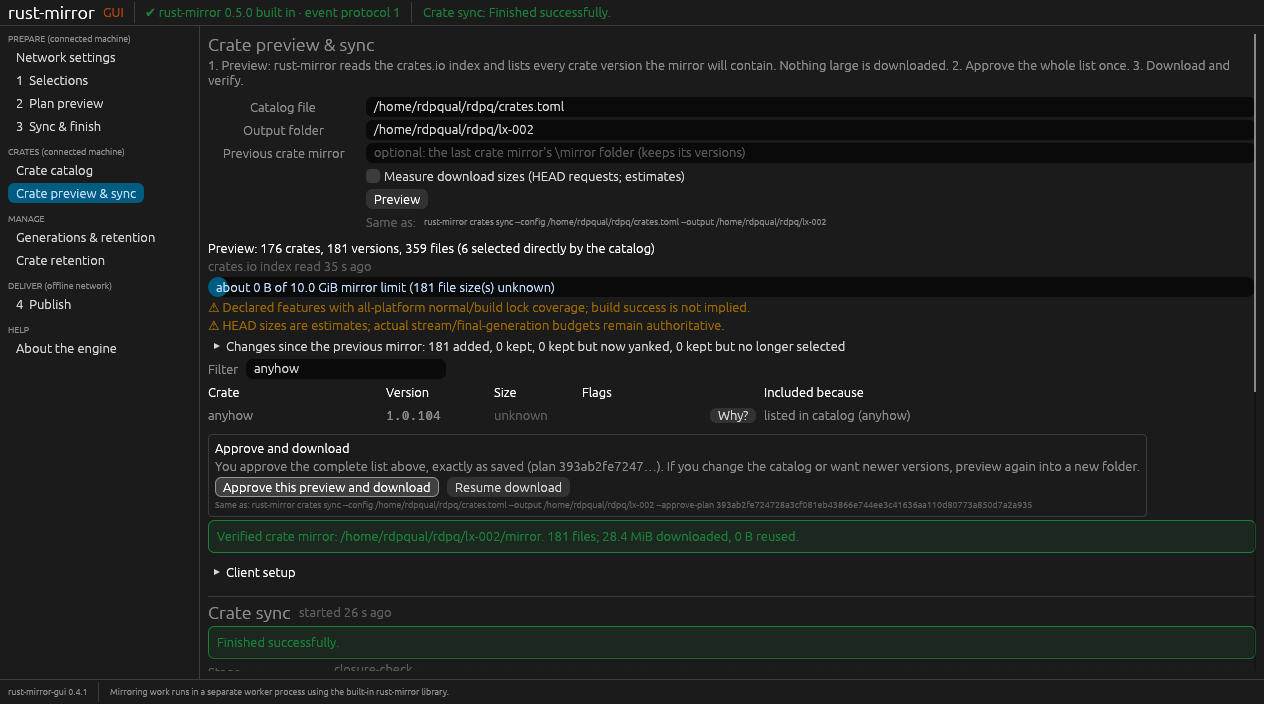
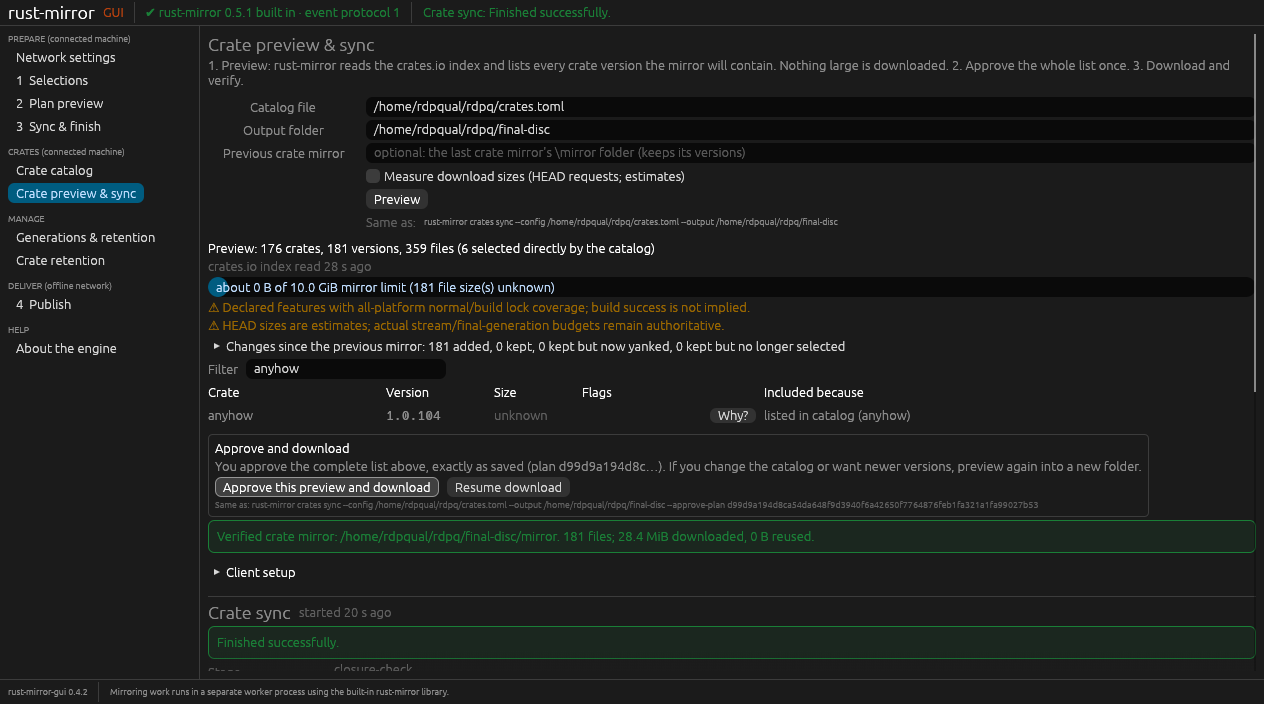
Remote Desktop record, test plan/roadmap/README/tutorial status, 0.4.2 notes with per-platform CPU; harness records the Server 2022 CPU miss as a limit

Changed region(s): [[0.432, 0.6562, 0.8948, 0.7188], [0.3703, 0.75, 0.6479, 0.7812], [0.4011, 0.1562, 0.432, 0.1875]]

diff --git a/docs/evals/2026-11-15-remote-desktop.md b/docs/evals/2026-11-15-remote-desktop.md
@@ -16,11 +16,97 @@ RDP? Is its CPU use reasonable?
   cores with software rendering;
 - large crate previews failed in the window.
 
-WINDOWS_SUMMARY
+**CPU, before and after** (GUI process only, % of one core, 4-core
+machines, crate download with the preview on screen):
+
+| Platform | 0.4.1 | 0.4.2 | Plan threshold (25%) |
+| --- | --- | --- | --- |
+| Linux, xrdp, Mesa llvmpipe/lavapipe | 317% | **14.4%** | pass |
+| Windows Server 2025, RDP, WARP | 165.5% | **6.2%** (4.5% on the larger catalog) | pass |
+| Windows Server 2022, RDP, WARP | 326.9% | **86.2%** (88.6% on the larger catalog) | **limit** (see below) |
+
+Windows numbers are from the same run, same session and same 181-version
+catalog for both builds (run 43676198817). The Linux numbers are from the
+same session and catalog. Idle (no operation running) is 0–2.5% everywhere.
 
 ## Windows (step 1)
 
-WINDOWS_SECTION
+**Evidence run:**
+[43676198817](https://github.com/rustcommons/rust-mirror-gui/actions/runs/43676198817)
+(commit `2cd22ce`, the final app code; the harness was later changed only to
+record the CPU limit below). Workflow:
+[`remote-desktop.yml`](../../.github/workflows/remote-desktop.yml).
+
+The scripts are in [`qualification/rdp/`](../../qualification/rdp). On a
+disposable GitHub runner with no GPU, the workflow:
+- enables Remote Desktop and creates a temporary local user, with a random
+  password that is masked and never written down;
+- installs the exact FreeRDP client package `freerdp 3.33.1-1` from MSYS2,
+  checked by SHA-256 `B854F530…66A56F3A` (pacman also checks its signature);
+- connects to `127.0.0.2`, pinning the RDP server certificate by SHA-256,
+  so nothing is ignored.
+
+The app runs as that user inside the RDP session, on the Microsoft Remote
+Display Adapter. It is driven by UI Automation (egui exposes AccessKit) and
+captured with PrintWindow, both from a scheduled task scoped to the
+session. Disconnects use `tsdiscon`; console takeover uses `tscon` run as
+SYSTEM. `cleanup.ps1` logs off the sessions and removes the user, its
+profile, the tasks and the files.
+
+The data was crates.io sync of 291 crate versions (tokio, reqwest, clap,
+regex, serde, anyhow, aws-sdk-s3, aws-config), downloaded one at a time.
+
+| Scenario | Server 2022 | Server 2025 |
+| --- | --- | --- |
+| Launch under 10 s, full draw | **Pass:** window 0.5 s, drawn 2.3 s | **Pass:** window 0.6 s, drawn 0.9 s |
+| Renderer and adapter | **Pass:** Direct3D 12 on WARP (`d3d10warp.dll`, `d3d12.dll`, `D3D12Core.dll`); adapters Microsoft Hyper-V Video and Microsoft Remote Display Adapter | **Pass:** same |
+| Idle CPU and memory (30 s) | **Pass:** 2.5%; working set 74 MiB, private 289 MiB | **Pass:** 0%; 81 MiB, 292 MiB |
+| Live status during a download | **Pass:** transferred 2.5 → 5.7 → 9.2 → 13.1 MiB over 10 s | **Pass:** 4.2 → 8.2 → 12.1 → 14.7 MiB over 9 s |
+| Stop | **Pass:** "Stopped: operation cancelled" at 91 files | **Pass:** at 114 files |
+| Resume, disconnect mid-sync, reconnect | **Pass:** session "Disc" with GUI and worker running; after reconnecting it drew; "Verified crate mirror … 291 files" | **Pass:** same |
+| Reconnect at 1600×900 | **Pass:** drew on the 1600×900 screen | **Pass** |
+| Reconnect at 150% | **Pass:** DPI 144, drew | **Pass:** DPI 144, drew ([screenshot](../screenshots/rdp-windows-2025-150pct.png)) |
+| Minimize the RDP client mid-sync | **Pass:** sync finished, drew after restore (GUI 89.6% while minimized) | **Pass:** GUI 4.3% while minimized |
+| CPU during a download | **Limit:** 88.6% (0.4.1: 326.9%) | **Pass:** 4.5% (0.4.1: 165.5%) |
+| Start on the console, take over through RDP | **Pass:** on the console (Hyper-V Video, 1024×768) it drew; after RDP takeover it drew | **Pass** ([on the console](../screenshots/rdp-windows-2025-on-console.png)) |
+
+Screenshots: [downloading, Server 2025](../screenshots/rdp-windows-2025-downloading.png),
+[after reconnecting, Server 2022](../screenshots/rdp-windows-2022-after-reconnect.png).
+All captures are in the run's artifacts.
+
+### The Server 2022 CPU limit
+
+The frame log shows exactly 1 redraw a second during the 8-second sample.
+Building each frame takes about 10 ms, yet the window uses 88% of a core.
+So each frame costs about 0.9 s of CPU in Server 2022's software renderer
+(WARP), against about 45 ms on Server 2025.
+
+Presenting without vsync (`RUST_MIRROR_GUI_PRESENT_MODE=auto_no_vsync`)
+made no difference: 92.3%, against 86.2% with the default.
+
+The app cannot make that renderer faster. 0.4.2 cuts its use from 327% to
+86–89%, which is about 22% of the 4-core machine. The remaining options, for
+the owner to decide:
+- redraw less often on very slow renderers (adaptive);
+- accept it as a known limit of Server 2022 without a GPU.
+
+The workflow records it as a limit and fails if CPU goes over 150%, which
+would mean the 0.4.1 behaviour is back.
+
+### Harness problems found on the way (not app bugs)
+
+- The first CPU fix was measured only on Linux. On Windows it was invisible
+  until the frame log showed a resizing egui grid requesting extra redraws.
+- Large previews failed in the window: a real app bug, fixed (64 MiB).
+- The harness was adjusted along the way:
+  - it waits for the download stage before sampling, because the sync first
+    resolves again for 10–20 s;
+  - it samples transferred bytes, because file counts pause on large crates;
+  - it runs `tscon` as SYSTEM;
+  - it runs the 0.4.1 comparison on a catalog that 0.4.1 can preview.
+
+Earlier runs: 43653491629, 43655102977, 43667562821, 43670573136,
+43673582573.
 
 ## Linux with xrdp (step 2)
 
@@ -43,11 +129,11 @@ crates.io. The user, sessions and files were removed afterwards.
 | Renderer | **Pass.** Software: Mesa lavapipe Vulkan (`libvulkan_lvp.so`) and llvmpipe GL (`swrast_dri.so`, LLVM 15) loaded; no GPU. |
 | Preview, then download with live status | **Pass.** Status updated live: 54 files, then 65 one second later ([screenshot](../screenshots/rdp-linux-xrdp-sync-live.png)). |
 | Stop, then Resume | **Pass.** "Stopped: operation cancelled" at 93 of 181, verified files kept ([screenshot](../screenshots/rdp-linux-xrdp-stopped.png)). Resume finished the same approved preview. |
-| Disconnect mid-sync, reconnect | **Pass.** With the client ended, the session's X server and the app (GUI and worker) kept running. After reconnecting, the window drew, and the sync finished: 181 files ([screenshot](../screenshots/rdp-linux-xrdp-finished-after-reconnect.png)). |
+| Disconnect mid-sync, reconnect | **Pass** (repeated with the final 0.4.2 build). With the client ended, the session's X server and the app (GUI and worker) kept running. After reconnecting, the window drew and showed the finished mirror: 181 files ([screenshot](../screenshots/rdp-linux-xrdp-finished-after-reconnect.png)). |
 | Reconnect at another resolution | **Pass.** 1280×800 changed to 1440×900 (FreeRDP limits the requested 1600×900 to its own 1440×900 display); the window drew ([screenshot](../screenshots/rdp-linux-xrdp-after-reconnect.png)). |
 | Minimize the RDP client mid-sync | **Pass.** The sync finished (181 files) and the window drew after restoring. The window kept using about 24% while minimized: the server session keeps running, so the app cannot tell. |
 | Idle CPU and memory | **Pass.** 0% CPU over 30 s with a preview on screen; about 136 MiB resident. |
-| CPU during a download | **Fail with 0.4.1, pass with 0.4.2.** Same download, preview on screen: GUI 317% of one core with 0.4.1, 26–28% with 0.4.2. The download also finished sooner (46 s, then 26 s), because the GUI had been starving the worker. |
+| CPU during a download | **Fail with 0.4.1, pass with 0.4.2.** Same 181-version download, preview table on screen, GUI process only: **317%** of one core with 0.4.1; 26–28% with redraws every 0.5 s; **14.4%** with the final 0.4.2 (1 redraw a second; the frame log shows 1 frame a second). The download also finished sooner (46 s with 0.4.1, about 20 s with 0.4.2), because the GUI had been starving the worker. |
 | 150% scaling | Not tested on Linux; covered on Windows. |
 
 ## What was wrong, and the fixes (0.4.2)

diff --git a/docs/releases/v0.4.2.md b/docs/releases/v0.4.2.md
@@ -11,8 +11,10 @@ engine is now rust-mirror 0.5.1.
 - **Fixed: high CPU use while an operation runs.** The window redrew for
   every line of worker output, and a details table that changed size on
   every redraw asked for another redraw, so it redrew continuously during a
-  download. The window now redraws twice a second while an operation runs
-  (the status still updates live), and the crate preview table and the
+  download. The window now redraws once a second while an operation runs,
+  so the status and the "last event" counter still update every second.
+  Input still redraws at once, and so do the end of an operation, an error,
+  a retry wait and the stalled warning. The crate preview table and the
   activity log lay out only the rows in view.
 - **Fixed: large crate previews failed in the window** with "event line
   exceeds 1 MiB". A preview's result grows with the catalog (about 4 KB per
@@ -26,6 +28,8 @@ engine is now rust-mirror 0.5.1.
   400). Long lines in the activity log scroll sideways instead of wrapping.
 - **Diagnostics:** set `RUST_MIRROR_GUI_FRAME_LOG` to a file name, and the
   app writes once a second how often the window redrew and why.
+  `RUST_MIRROR_GUI_PRESENT_MODE` (`fifo`, `mailbox`, `immediate`,
+  `auto_vsync`, `auto_no_vsync`) picks the swap-chain present mode.
 
 ## Upgrade
 
@@ -45,13 +49,34 @@ cargo install rust-mirror-gui --version 0.4.2 --locked
 Evidence is in the
 [Remote Desktop record](https://github.com/rustcommons/rust-mirror-gui/blob/main/docs/evals/2026-11-15-remote-desktop.md).
 
-- **CPU, Linux under xrdp** (software rendering, 4 cores), the same crate
-  download with the preview on screen: the window used 317% of one core
-  with 0.4.1 and about 27% with 0.4.2. Idle: 0%.
-- WINDOWS_CPU_RESULT
+- **CPU while downloading crates**, inside real Remote Desktop sessions
+  without a GPU (window process only, % of one core, same download for
+  both versions):
+
+  | Platform | 0.4.1 | 0.4.2 |
+  | --- | --- | --- |
+  | Linux, xrdp, Mesa llvmpipe/lavapipe | 317% | 14.4% |
+  | Windows Server 2025, RDP, Direct3D 12 on WARP | 165.5% | 6.2% |
+  | Windows Server 2022, RDP, Direct3D 12 on WARP | 326.9% | 86.2% |
+
+  Idle is 0–2.5%.
+- **Known limit, Windows Server 2022 without a GPU:** its software renderer
+  costs about 0.9 s of CPU per frame, so even at one redraw a second the
+  window uses most of one core (about 22% of a 4-core machine) while an
+  operation runs. That is over the test plan's 25% of one core. Server 2025
+  needs about 45 ms per frame.
+- **Remote Desktop scenarios** on Windows Server 2022 and 2025 (loopback
+  RDP, FreeRDP client) and on Linux with xrdp all pass:
+  - launch under 10 s;
+  - a crate sync with live status, Stop and Resume;
+  - disconnect mid-sync and reconnect, with the sync finished;
+  - reconnect at another resolution and at 150%;
+  - minimizing the client;
+  - starting on the console and taking over through RDP (Windows).
 - **Tests:** new automated tests cover a 3 MiB result line, and the layout
   checks still pass at 900×600 with 100%, 125% and 150% scaling.
-- **Not tested:** macOS, and real Remote Desktop clients other than FreeRDP.
+- **Not tested:** macOS; Remote Desktop from another machine or with
+  Microsoft's client (`mstsc`); screen readers.
 
 ## Links
 

diff --git a/CHANGELOG.md b/CHANGELOG.md
@@ -21,15 +21,17 @@ built-in engine is rust-mirror 0.5.1. See the
 [versioned notes](https://github.com/rustcommons/rust-mirror-gui/blob/main/docs/releases/v0.4.2.md).
 
 - **Fixed: high CPU use while an operation runs.** The window redrew for every
-  line of worker output, and an egui grid that changed size on every redraw
-  asked for yet another redraw, so the window redrew continuously during a
-  download. With software rendering (Remote Desktop, machines without a
+  line of worker output, and a details table that changed size on every
+  redraw asked for another redraw, so the window redrew continuously during
+  a download. With software rendering (Remote Desktop, machines without a
   GPU) that used several cores and slowed the download itself. The window
-  now redraws twice a second while an operation runs, and the crate preview
-  table and the activity log lay out only their visible rows. On Linux
-  under xrdp, the window's CPU during a crate download fell from 317% to
-  about 27% of one core, and the download finished faster (26 s instead of
-  46 s).
+  now redraws once a second while an operation runs, and at once for input,
+  the end of an operation, errors, retry waits and the stalled warning. The
+  crate preview table and the activity log lay out only the rows in view.
+  Window CPU during a crate download inside Remote Desktop, % of one core:
+  Linux with xrdp 317% → 14.4%; Windows Server 2025 165.5% → 6.2%; Windows
+  Server 2022 326.9% → 86.2% (its software renderer stays slow; a known
+  limit).
 - **Fixed: large crate previews failed in the window.** The worker's result
   for a preview of about 300 crate versions is over 1 MiB, which the window
   refused ("event line exceeds 1 MiB"). The limit is now 64 MiB.
@@ -44,10 +46,11 @@ built-in engine is rust-mirror 0.5.1. See the
   "…" with the full text on hover. It lists up to 10,000 rows (was 400).
   Long lines in the activity log scroll sideways instead of wrapping.
 - Diagnostics: `RUST_MIRROR_GUI_FRAME_LOG=<file>` writes, once a second, how
-  often the window redrew and why.
+  often the window redrew and why; `RUST_MIRROR_GUI_PRESENT_MODE` picks the
+  swap-chain present mode.
 - Testing: a Remote Desktop qualification workflow runs the app inside a real
-  RDP session on Windows Server 2022 and 2025, and xrdp on Linux was tested
-  by hand. See the [record](docs/evals/2026-11-15-remote-desktop.md).
+  RDP session on Windows Server 2022 and 2025; xrdp on Linux was tested by
+  hand. See the [record](docs/evals/2026-11-15-remote-desktop.md).
 
 ## [0.4.1] - 2026-11-14
 

diff --git a/README.md b/README.md
@@ -16,14 +16,14 @@ can stop or end it.
 
 **New here?** Read the [tutorial](docs/TUTORIAL.md): your first mirror in about 10 minutes.
 
-**Status: 0.4.1.** 0.4.1 makes every page usable on small windows and
-scaled displays. **0.4.0 added Cargo.lock import and crate retention:** import projects'
-Cargo.lock files so the mirror holds exactly the crates.io versions they
-build with, and remove old crate mirrors with a preview and a typed
-confirmation. It builds in rust-mirror 0.5.0. Crate mirroring (0.3.0) and the
-corporate-network features (0.2.0) are unchanged. Remote Desktop, screen
-readers and Windows/macOS runtime behavior are not yet verified; see
-[known limits](docs/releases/v0.4.1.md#validation-and-limits).
+**Status: 0.4.2.** 0.4.2 uses far less CPU while an operation runs (it
+matters most over Remote Desktop and without a GPU), handles large crate
+previews, and builds in rust-mirror 0.5.1. 0.4.1 made every page usable on
+small windows and scaled displays. 0.4.0 added Cargo.lock import and crate
+retention. Tested inside real Remote Desktop sessions on Windows Server 2022
+and 2025 and with xrdp on Linux ([record](docs/evals/2026-11-15-remote-desktop.md));
+macOS runtime and screen readers are not yet verified; see
+[known limits](docs/releases/v0.4.2.md#validation-and-limits).
 
 ## Install
 
@@ -105,7 +105,7 @@ writes to a server: use only a fresh, empty test repository.
 ## Documentation
 
 - [Changelog](CHANGELOG.md) and [GitHub Releases](https://github.com/rustcommons/rust-mirror-gui/releases)
-- [Release notes for 0.4.1](docs/releases/v0.4.1.md), [0.4.0](docs/releases/v0.4.0.md), [0.3.0](docs/releases/v0.3.0.md), [0.2.0](docs/releases/v0.2.0.md) and [0.1.0](docs/releases/v0.1.0.md)
+- [Release notes for 0.4.2](docs/releases/v0.4.2.md), [0.4.1](docs/releases/v0.4.1.md), [0.4.0](docs/releases/v0.4.0.md), [0.3.0](docs/releases/v0.3.0.md), [0.2.0](docs/releases/v0.2.0.md) and [0.1.0](docs/releases/v0.1.0.md)
 - [Design and architecture](docs/DESIGN.md)
 - [Roadmap](docs/ROADMAP.md): planned and deferred work, including no-GPU and Remote Desktop testing
 - [Windows trial guide](TRYING.md)

diff --git a/docs/TUTORIAL.md b/docs/TUTORIAL.md
@@ -315,8 +315,11 @@ Things to know:
 **The window does not open.**
 - Linux: install the graphics packages from [section 1](#1-install-and-launch).
   With no Vulkan or OpenGL driver at all, the window can't be created.
-- Windows over **Remote Desktop** has **not been tested**. Native Windows 11
-  launches have been checked. On Windows Server 2025 **without a GPU**, 0.4.0
+- Windows over **Remote Desktop** works: tested inside real RDP sessions on
+  Windows Server 2022 and 2025, including disconnect and reconnect, other
+  resolutions and 150% ([record](evals/2026-11-15-remote-desktop.md)). On
+  Server 2022 without a GPU, the window uses most of one processor core
+  while an operation runs. Native Windows 11 launches have been checked. On Windows Server 2025 **without a GPU**, 0.4.0
   opens and draws its first screen with Direct3D 12 on WARP, Windows' software
   renderer ([Windows qualification](evals/2026-11-14-windows-qualification.md));
   using it there, and Remote Desktop, are still untested. See the

diff --git a/docs/ROADMAP.md b/docs/ROADMAP.md
@@ -7,7 +7,10 @@ promised for a specific release. Shipped behavior is described in the
 ## Deferred: qualification
 
 - **No-GPU and Remote Desktop qualification** (deferred by the owner on
-  2026-11-12). Check that the app opens, draws correctly, stays responsive and
+  2026-11-12; Remote Desktop steps 1 and 2 done on 2026-11-15, see the
+  [Remote Desktop record](evals/2026-11-15-remote-desktop.md): Windows
+  Server 2022 and 2025 over loopback RDP and Linux with xrdp pass, with
+  CPU use on Server 2022 as an open limit). Check that the app opens, draws correctly, stays responsive and
   completes a sync on machines without a GPU, especially Windows Server over
   Remote Desktop. Includes a clear failure message where nothing can draw and
   tested workarounds. Waiting on a test environment decision.

diff --git a/docs/plans/NO-GPU-TEST-PLAN.md b/docs/plans/NO-GPU-TEST-PLAN.md
@@ -1,6 +1,13 @@
 # No-GPU and Remote Desktop test plan
 
-Status: **planned, deferred** (2026-11-12). Not started. See the [roadmap](../ROADMAP.md).
+Status: **steps 1 and 2 done** (2026-11-15) for W1 with real RDP (Windows
+Server 2022 and 2025, loopback RDP with FreeRDP) and L3 (Linux with xrdp);
+see the [Remote Desktop record](../evals/2026-11-15-remote-desktop.md). Both
+work, including disconnect and reconnect, other resolutions, 150% and console
+takeover. Open: Server 2022's software renderer keeps the window at about
+86–89% of one core while an operation runs (plan threshold 25%). Not started:
+W2/W3 with a remote client, L1/L2/L4, M1, and screen readers. See the
+[roadmap](../ROADMAP.md).
 
 ## Question
 
